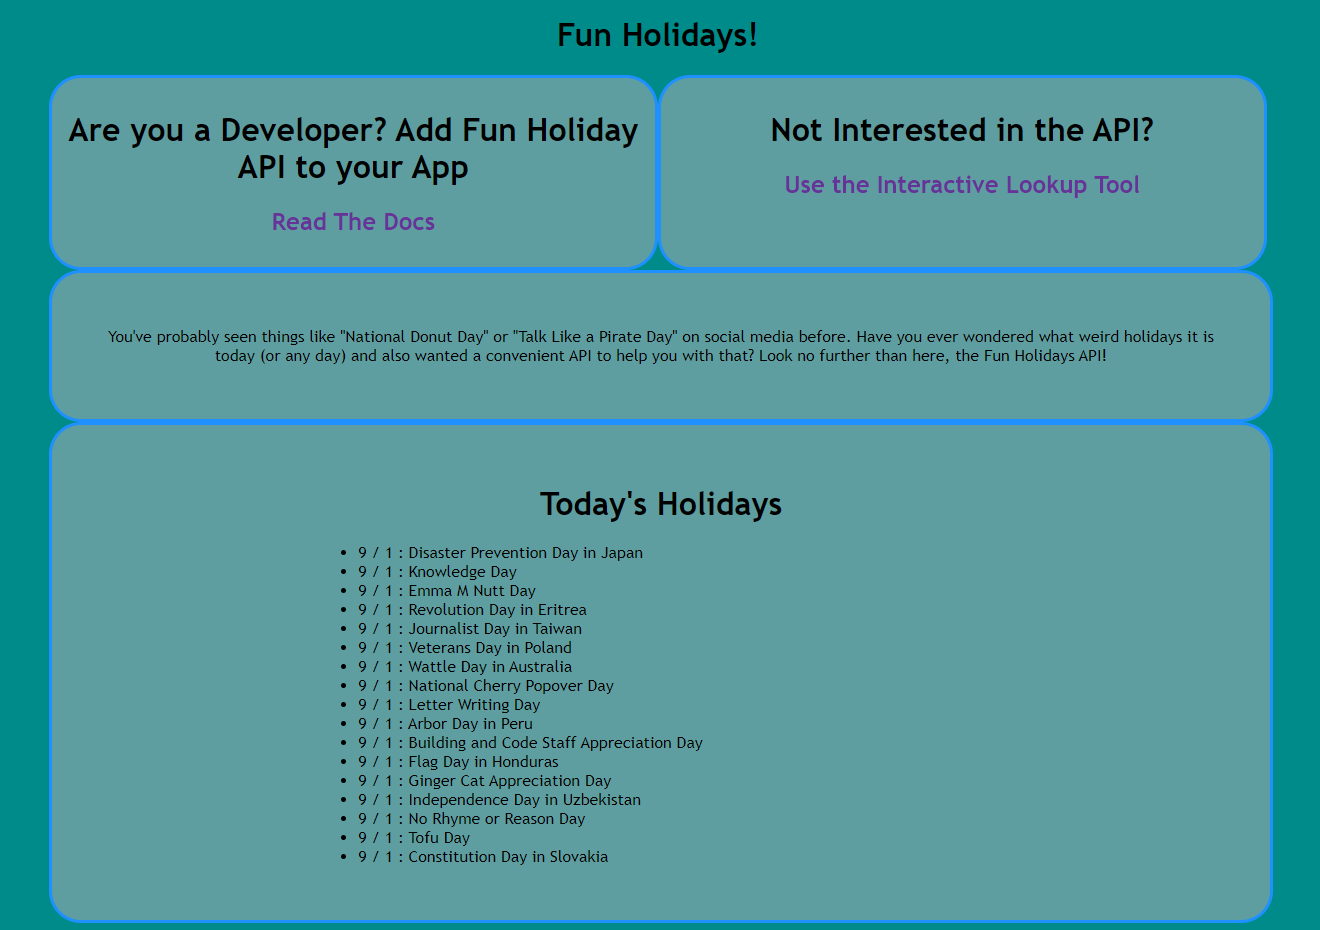
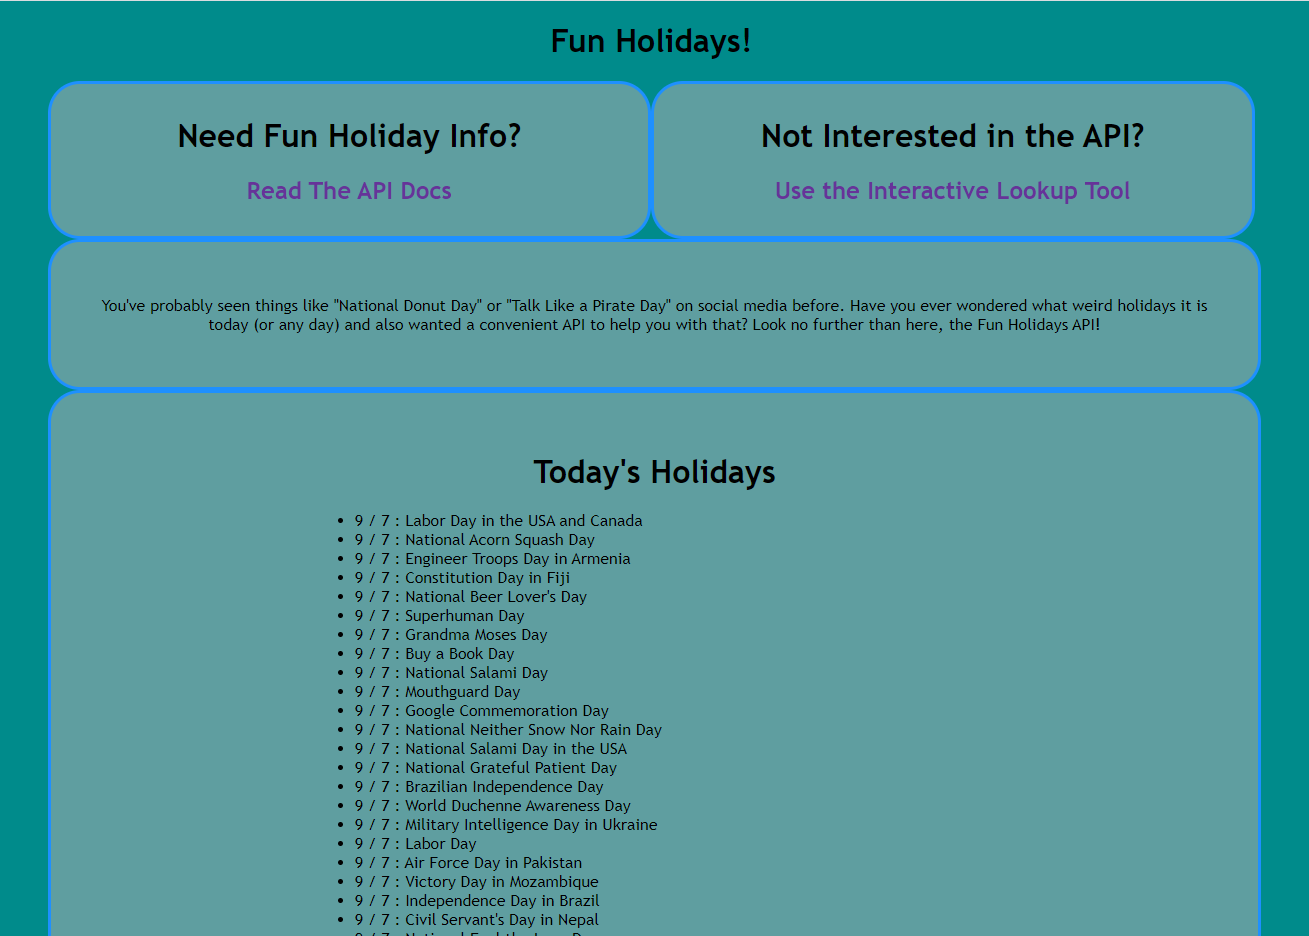
some updates

diff --git a/index.html b/index.html
@@ -1,14 +1,14 @@
 <!DOCTYPE html>
 <html>
     <head>
-        <title id="title">Nate Dimick's Personal Website</title>
+        <title id="title">Nate Dimick's Webpage</title>
         <link rel="stylesheet" href="./cloudyv2.css">
         <link rel="stylesheet" href="./memfont.css">
         <link rel="icon" href="./Pictures/icon.png">
         <script src="https://d3js.org/d3.v5.min.js"></script>
         <script src="tricks.js"></script>
         <meta charset="UTF-8">
-        <meta name="description" content="Everything Nate Dimick wants you to know about Nate Dimick">
+        <meta name="description" content="Everything you need to know about Nathaniel (Nate) Dimick - Portfolio and More! (but not too much)">
         <meta name="keywords" content="Nate Nathaniel J. Dimick Website Portfolio Orford Rivendell Brandeis Aloha Horizons">
         <meta name=”robots” content="index, follow">
         <meta name="viewport" content="width=device-width, initial-scale=1.0">
@@ -39,7 +39,7 @@
         </section>
         <section id="holiday-box">
             <div>
-                <h2 id="holiday"></h2>
+                <h2 ><a href="https://fun-holiday-api.herokuapp.com" id="holiday"></a></h2>
             </div>
         </section>
         <section class="flip">
@@ -65,7 +65,7 @@
             <div id="mode-toggle">  <!-- Stack overflow says font-size: 0 is a good way to remove gaps between objects-->
                 <button id="business-button" class="left-button">Business Mode</button>
                 <button id="fun-button" class="right-button">Fun Mode</button>
-                <p id="hint"><br>(hover over my picture!)</p>
+                <p id="hint"><br>Try to find all of the fun mode changes on the site!<br>(hint: hover over my picture!)</p>
             </div>
         </section>
         <section id="portfolio-header">
@@ -205,10 +205,10 @@
                     This Website
                 </h2>
                 <p>
-                    There I was, in October 2019, months from graduating. I had no web presence besides social media accounts. I didn't know a lick of HTML, CSS or JavaScript. So, I set out to learn those technologies on my own, Since they had never been covered in any of the courses I had taken, which in retrospect seems completely wrong. The product of that endeavor is this site. Think what you want about it, I think it's suitable.
+                    In October of 2019, with graduation on the Horizon, I set out to build my own portfolio website to show off my abilities and showcase some projects to potential employers. The only problem was that I didn't know HTML, CSS, or Javascript, becuase I had always been working on back-end or similar applications! It was an easy problem to solve, but not quickly. I credit this project as a catalyst that triggered a wake up call to myself, exposing that I had a ton of gaps in my skillset that needed to be filled. Since then I've tightened the straps and become significantly more capable as a web developer.
                 </p>
                 <p>
-                    My biggest takeaway from this project is that working with css is a chore. I also don't have the chops to be a good UI/UX designer. I was also too ambitious in my first go at this site (see the <a href="#time-machine" style="color: forestgreen;">Time Machine</a>). In summary, after finishing the site redo I was not interested in front end web development for a while, purely because of css.
+                    I also learned that  just don't have "it" when it comes to styling a website. As long as it's functional and not plain text on a white background, I'm okay with the product.
                 </p>
             </div>
         </section>
@@ -221,7 +221,7 @@
                     Fun Holidays API
                 </h2>
                 <p>
-                    This one started out selfishly. As part of "Fun Mode" on this page (have you <a href="#mode-toggle">tried it</a> yet?) I wanted to display a message that said "Happy {something} Day!" becuase every day there are multiple fake, under the radar "holidays" and a message like that is my idea of fun. I thought there would have already been an API for this sort of thing, but I couldn't find one, only API's that reported real holidays and API's that cost more per year then I thought was worth it. So I built it myself using Flask and hosted on Heroku. It only took ~24 hours in total to build - this included webscraping for data collection with beautifulsoup, compiling all data into a tsv file, putting said data into a PostgreSQL database, building and deploying the app. I'm very happy with how it turned out.
+                    This one started out selfishly. As part of "Fun Mode" on this page (have you <a href="#mode-toggle">tried it</a> yet?) I wanted to display a message that said "Happy {something} Day!" becuase every day there are multiple fake, under the radar "holidays" and a message like that is my idea of fun. I thought there would have already been an API for this sort of thing, but I couldn't find one, only API's that reported real holidays and API's that cost more per year then I thought was worth it. So I built it myself using Flask and hosted on Heroku. It only took ~24 hours in total to initially build - this included webscraping for data collection with beautifulsoup, compiling all data into a tsv file, putting said data into a PostgreSQL database, building and deploying the app. After about 4 days I had amassed over 7,000 unique holidays, which I believe is the most complete list on the internet. I'm very happy with how it turned out.
                 </p>
                 <p>
                     You can use the Fun Holidays API for free at <a href="https://fun-holiday-api.herokuapp.com">fun-holiday-api.herokuapp.com</a>. Please be nice to it.

diff --git a/tricks.js b/tricks.js
@@ -99,7 +99,7 @@ var webtitles = [
     "B is for the B in riot",
     "Meatball, meatball, spaghetti underneath",  // ravioli ravioli great barrier reef!!
     "Velociraptor = distanceraptor / timeraptor",  // math checks out
-    "THREE sanwiches!?",
+    "THREE sandwiches!?",
     "Mothman!",
     "You probably need to drink more water",
     "Leader of the \"Nate needs a job\" task force",
@@ -107,7 +107,12 @@ var webtitles = [
     "Yeah this is just one page why would there be more?",  // best choice I made. one quality page is all I need
     "Timelord will continue to punish linear conceptions of time",
     "Not the criminal Nate Dimick from upstate New York",  // he soils my good name
-    "There are 100 possible titles and you got the 100th!"
+    "There are 105 possible titles and you got the 100th!",
+    "Where's my train? Take me away, choo choo!",
+    "Hire me?",
+    "REEEEEEE",
+    "Take my by the hand lead me to the land",
+    "This website is only available until March 31st",  // Choose between this site and super mario 3d all stars, I guess
 ];
 
 var personaltitles = [
